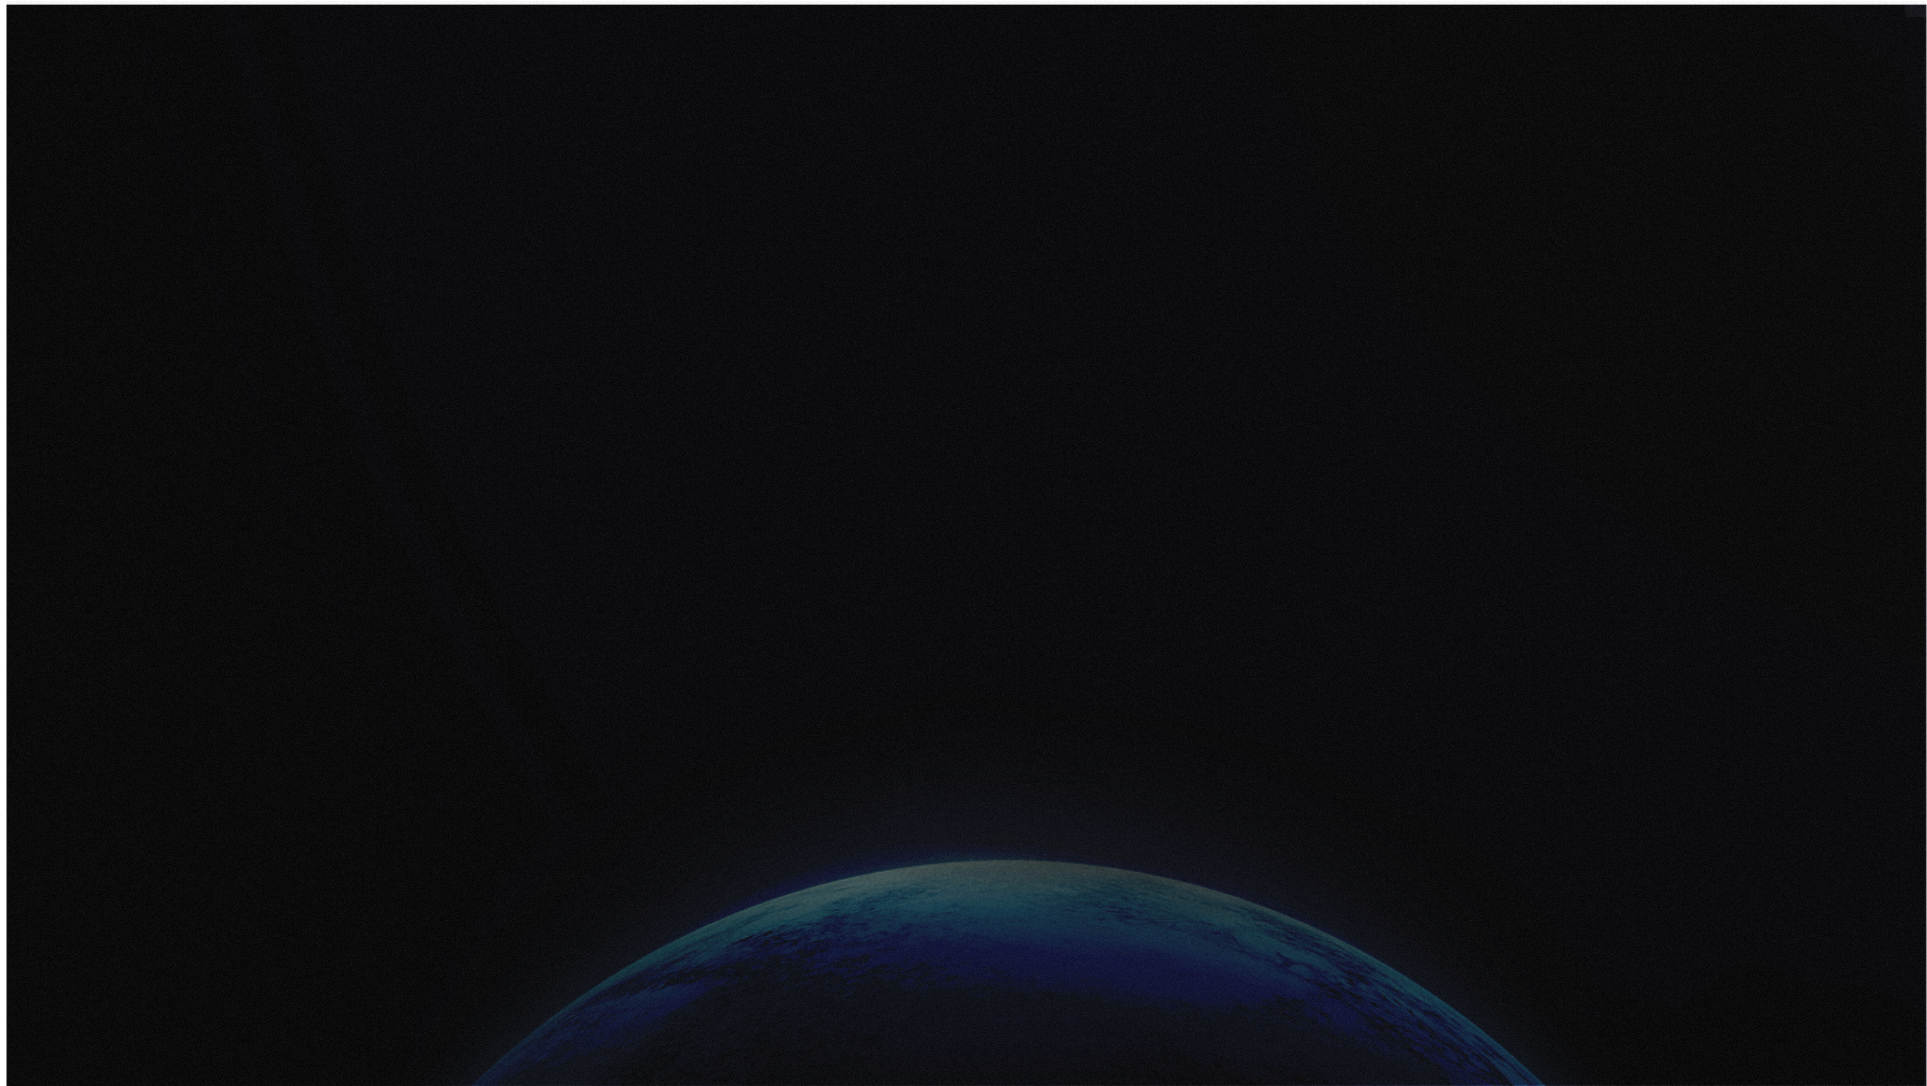
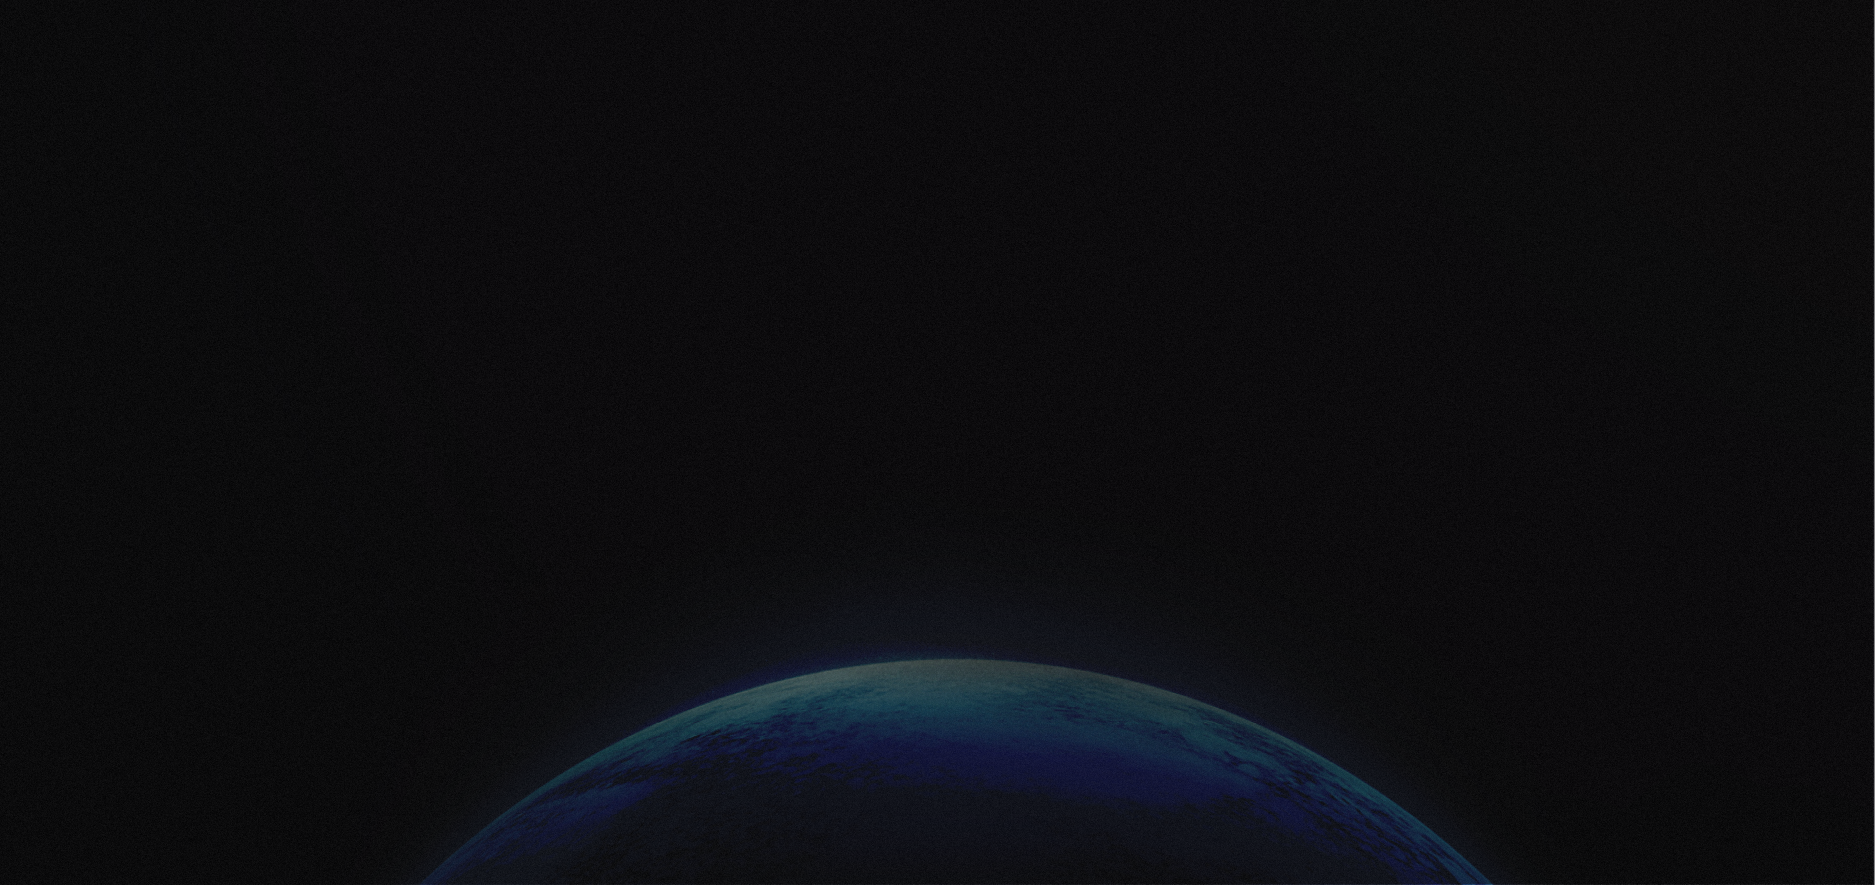
Pages

Changed region(s): [[0.0, 0.0, 1.0, 1.0], [0.2165, 0.7322, 0.8043, 1.0]]

diff --git a/app/(site)/page.tsx b/app/(site)/page.tsx
@@ -15,13 +15,13 @@ import BoxComponent from "./components/BoxComponent";
 export default function Home() {
 	return (
 		<main className="flex min-h-screen flex-col items-center justify-between">
-			<div className="w-full bg-[url('background-image-earh')]">
+			<div className="w-full bg-[url('/background-image-earth-landing.png')] bg-cover bg-center bg-no-repeat">
 				<Hero />
 			</div>
 			<section className="max-w-[1400px] w-full mx-auto p-3 sm:p-4">
 				<div id="ai-search" className="mt-20 px-2 sm:px-4">
 					<div className="w-full flex items-center flex-col">
-						<div className="absolute h-[300px] w-[600px] bg-orange-700 -left-[800px] blur-[300px] rounded-full" />
+						<div className="absolute h-[900px] w-[120px] bg-orange-700 left-[-250px] blur-[250px] rounded" />
 						<div>
 							<Image
 								src="/slash.png"
@@ -40,7 +40,7 @@ export default function Home() {
 								height={300}
 								width={600}
 								draggable={false}
-								className="w-[800px] h-[70px] absolute right-0 -translate-y-16"
+								className="w-[800px] h-[70px] absolute right-0 -translate-y-16 hidden md:block"
 							/>
 						</div>
 						<p className="text-sm text-gray-300 text-center max-w-3xl mt-6 leading-relaxed">
@@ -59,7 +59,8 @@ export default function Home() {
 						/>
 					</div>
 				</div>
-				<div id="ai-bots" className="mt-28">
+				<div id="ai-chat" className="mt-28">
+					<div className="absolute h-[900px] w-[120px] bg-[#2463C1] right-[-250px] blur-[250px] rounded" />
 					<div className="w-full flex items-center gap-3">
 						<Image
 							src="/slash.png"
@@ -89,6 +90,7 @@ export default function Home() {
 								src="/gifs/process.gif"
 								alt="process-image"
 								fill
+								sizes=""
 								objectFit="cover"
 							/>
 						</div>
@@ -104,8 +106,8 @@ export default function Home() {
 						</button>
 					</div>
 				</div>
-				<div id="ai-images" className="mt-32 relative">
-					<div className="absolute h-[600px] w-[300px] bg-green-700 -left-[700px] blur-[250px]" />
+				<div id="ai-images" className="mt-32">
+					<div className="absolute h-[900px] w-[120px] bg-[#369933] left-[-250px] blur-[250px] rounded" />
 					<div className="flex flex-col md:flex-row gap-20">
 						<div className="w-full flex md:hidden items-center gap-3">
 							<h1 className="uppercase text-2xl md:text-3xl bg-gradient-to-b from-white to-gray-500 font-bold text-transparent bg-clip-text">
@@ -113,13 +115,13 @@ export default function Home() {
 							</h1>
 							<div className="h-[3px] max-w-xl bg-gradient-to-r from-gray-500 via-gray-700/50 to-transparent flex-1" />
 						</div>
-						<div className="h-96 md:h-auto w-full relative">
+						<div className="h-96 md:h-auto w-full relative sha">
 							<Image
 								src="/gifs/man-visualization.gif"
 								alt="visualization"
 								objectFit="cover"
 								fill
-								className="rounded-3xl max-h-[500px]"
+								className="rounded-3xl max-h-[500px]  shadow-2xl shadow-[#2c2c2c]"
 							/>
 						</div>
 						<div className="w-full">
@@ -149,6 +151,7 @@ export default function Home() {
 					</div>
 				</div>
 				<div id="ai-writing" className="mt-28">
+					<div className="absolute h-[900px] w-[120px] bg-[#27ACB2] right-[-250px] blur-[250px] rounded" />
 					<div className="w-full flex items-center gap-3">
 						<Image
 							src="/slash.png"
@@ -170,13 +173,15 @@ export default function Home() {
 							))}
 						</div>
 						<div className="w-full md:max-w-lg ">
-							<Image
-								src="/landing/ai-writing.gif"
-								alt="Writing Ai"
-								width={900}
-								height={600}
-								className="rounded-3xl shadow-2xl shadow-[#2c2c2c]"
-							/>
+							<div className="bg-gradient-to-tl from-primary-red via-primary-yellow/40 to-transparent p-[3px] w-full rounded-3xl">
+								<Image
+									src="/landing/ai-writing.gif"
+									alt="Writing Ai"
+									width={900}
+									height={600}
+									className="rounded-3xl shadow-2xl shadow-[#2c2c2c]"
+								/>
+							</div>
 						</div>
 					</div>
 					<div className="grid grid-cols-1 sm:grid-cols-2 md:grid-cols-4 gap-5 mt-10">
@@ -191,8 +196,8 @@ export default function Home() {
 					</div>
 				</div>
 				<div id="ai-voice" className="mt-28">
+					<div className="absolute h-[400px] w-[200px] bg-blue-700 left-[-250px] blur-[250px] rounded" />
 					<div className="w-full flex items-center flex-col">
-						<div className="absolute h-[300px] w-[600px] bg-orange-700 -left-[800px] blur-[300px] rounded-full" />
 						<div>
 							<Image
 								src="/slash.png"
@@ -211,7 +216,7 @@ export default function Home() {
 								height={300}
 								width={600}
 								draggable={false}
-								className="w-[800px] h-[70px] absolute right-0 -translate-y-16"
+								className="w-[800px] h-[70px] absolute right-0 -translate-y-16 hidden md:block"
 							/>
 						</div>
 					</div>
@@ -221,9 +226,9 @@ export default function Home() {
 						))}
 					</div>
 				</div>
-				<div className="mt-28">
+				<div id="ai-codes" className="mt-28">
+					<div className="absolute h-[900px] w-[120px] bg-[#726761] right-[-250px] blur-[250px] rounded" />
 					<div className="w-full flex items-center flex-col">
-						<div className="absolute h-[300px] w-[600px] bg-orange-700 -left-[800px] blur-[300px] rounded-full" />
 						<div className="w-full flex items-center gap-3">
 							<Image
 								src="/slash.png"
@@ -275,9 +280,9 @@ export default function Home() {
 						</div>
 					</div>
 				</div>
-				<div className="mt-28">
+				<div id="ai-personalized" className="mt-28">
+					<div className="absolute h-[900px] w-[120px] bg-yellow-700 left-[-250px] blur-[250px] rounded" />
 					<div className="w-full flex items-center flex-col">
-						<div className="absolute h-[300px] w-[600px] bg-orange-700 -left-[800px] blur-[300px] rounded-full" />
 						<div>
 							<Image
 								src="/slash.png"
@@ -296,12 +301,12 @@ export default function Home() {
 								height={300}
 								width={600}
 								draggable={false}
-								className="w-[800px] h-[70px] absolute right-0 -translate-y-16"
+								className="w-[800px] h-[70px] absolute right-0 -translate-y-16 hidden md:block"
 							/>
 						</div>
 					</div>
 					<div className="mt-14">
-						<div className="grid grid-cols-1 sm:grid-cols-2 md:grid-cols-3 gap-5">
+						<div className="grid grid-cols-1 sm:grid-cols-2 md:grid-cols-3 gap-10">
 							{AiPersonaObject.map((option, index) => (
 								<BoxComponent
 									isFullWidth={true}
@@ -312,7 +317,8 @@ export default function Home() {
 						</div>
 					</div>
 				</div>
-				<div className="mt-28">
+				<div id="create-your-own" className="mt-28">
+					<div className="absolute h-[900px] w-[120px] bg-primary-red right-[-250px] blur-[250px] rounded" />
 					<div className="w-full flex items-center gap-3">
 						<Image
 							src="/slash.png"

diff --git a/app/(site)/components/AccessButton.tsx b/app/(site)/components/AccessButton.tsx
@@ -1,0 +1,97 @@
+"use client";
+
+import React from "react";
+import { motion } from "framer-motion";
+import { useState, useRef, useEffect } from "react";
+import Image from "next/image";
+import clsx from "clsx";
+export default function AccessButton() {
+	const [isEarlyAccess, setIsEarlyAccess] = useState(false);
+	const [isValid, setIsValid] = useState(false);
+	const [email, setEmail] = useState("");
+	const [loading, setLoading] = useState(false);
+	const [isSuccess, setIsSuccess] = useState(false);
+	function handleChange(e: any) {
+		setEmail(e.target.value);
+		if (email) {
+			setIsValid(true);
+		}
+	}
+
+	const handleSubmit = (e: any) => {
+		e.preventDefault();
+		setLoading(true);
+		// handle api instead
+		setTimeout(() => {
+			setLoading(false);
+			setIsSuccess(true);
+		}, 2000);
+	};
+	const formRef = useRef<HTMLFormElement | null>(null);
+	const handleOutsideClick = (e: any) => {
+		if (formRef.current && !formRef.current.contains(e.target)) {
+			setIsEarlyAccess(false);
+		}
+	};
+	useEffect(() => {
+		document.addEventListener("mousedown", handleOutsideClick);
+		return () => {
+			document.addEventListener("mousedown", handleOutsideClick);
+		};
+	}, []);
+	return (
+		<div className="flex flex-col justify-center items-center">
+			{!isEarlyAccess && (
+				<button
+					onClick={() => setIsEarlyAccess(true)}
+					className="px-6 py-3.5 bg-neutral-800/50 ring-1 ring-inset ring-neutral-700 mt-5 capitalize text-sm rounded-md hover:bg-neutral-800/80 transition duration-300 font-semibold">
+					Get early access
+				</button>
+			)}
+			{isEarlyAccess && (
+				<motion.form
+					initial="hidden"
+					whileInView="visible"
+					viewport={{ once: true, amount: 0.4 }}
+					transition={{ duration: 0.5, delay: 0.4 }}
+					variants={{
+						hidden: { opacity: 0, x: -50 },
+						visible: { opacity: 1, x: 0 },
+					}}
+					ref={formRef}
+					onSubmit={handleSubmit}
+					className="w-[500px] mt-10">
+					<div className="bg-[#fbf7fb14] ring-1 ring-[#fbf7fb33] h-12 focus-within:ring-[#fbf7fb77] transition rounded-md flex items-center p-1 pl-3">
+						<input
+							type="text"
+							disabled={loading}
+							placeholder="Enter your email address"
+							onChange={handleChange}
+							className="h-full w-full bg-transparent outline-none text-sm"
+						/>
+						{isValid && (
+							<button
+								type="submit"
+								disabled={loading}
+								className={clsx(
+									" bg-primary-red text-white flex items-center gap-1 p-3 h-full w-8 text-sm rounded-md min-w-fit hover:bg-red-500 transition duration-300",
+									loading && "opacity-50"
+								)}>
+								{loading ? (
+									<span className="w-8">...</span>
+								) : (
+									<Image
+										src={isSuccess ? "/svgs/check.svg" : "/svgs/Arrow 1.svg"}
+										alt="Send icon"
+										width={30}
+										height={30}
+									/>
+								)}
+							</button>
+						)}
+					</div>
+				</motion.form>
+			)}
+		</div>
+	);
+}

diff --git a/app/(site)/components/Hero.tsx b/app/(site)/components/Hero.tsx
@@ -1,10 +1,11 @@
 import { heroTools } from "@/utils/constants/objects";
 import React from "react";
 import HeroButton from "./HeroButton";
+import AccessButton from "./AccessButton";
 
 export default function Hero() {
 	return (
-		<div className="mt-20 h-fit max-w-[1500px] h- mx-auto px-2 sm:px-4">
+		<div className="mt-20 h-fit max-w-[1500px] mx-auto px-2 sm:px-4 min-h-[40vh] max-h-[70vh]">
 			<div className="flex flex-col gap-4 items-start sm:items-center">
 				<h1 className="text-4xl text-transparent bg-gradient-to-b from-white to-gray-500 bg-clip-text flex gap-2">
 					Empowering
@@ -12,14 +13,12 @@ export default function Hero() {
 				<h1 className="capitalize text-4xl text-gray-200">
 					Everything, Everyone with AI
 				</h1>
-				<button className="px-6 py-3.5 bg-neutral-800/50 ring-1 ring-inset ring-neutral-700 mt-5 capitalize text-sm rounded-md hover:bg-neutral-800/80 transition font-semibold">
-					Get early access
-				</button>
+				<AccessButton/>
 			</div>
 
-			<div className="flex justify-center mt-56 gap-14 h-[40vh]">
+			<div className="hidden xl:flex justify-center mt-40 gap-3 h-[60vh]">
 				{heroTools.map((item, index) => {
-					const angle = index * (180 / (heroTools.length - 2.5 )) - 120;
+					const angle = index * (180 / (heroTools.length - 1 )) - 90;
 					return <HeroButton angle={angle} index={index} item={item} />;
 				})}
 			</div>

diff --git a/app/(site)/road-map/components/MileStoneComponent.tsx b/app/(site)/road-map/components/MileStoneComponent.tsx
@@ -14,8 +14,8 @@ export default function MileStoneComponent({
 }: IProps) {
 	return (
 		<div className="max-w-5xl mx-auto">
-			<div className="flex">
-				<div className="w-full max-w-xs flex gap-5 items-center justify-end">
+			<div className="flex flex-col md:flex-row">
+				<div className="w-full md:max-w-xs flex gap-5 items-center md:justify-end">
 					<div className="w-full max-w-fit flex gap-2 text-xs">
 						<span className="text-primary-red">[</span>
 						<h1 className="text-[#FBFBFB]/80 uppercase">{date}</h1>
@@ -23,7 +23,7 @@ export default function MileStoneComponent({
 					</div>
 					<div className="h-[1px] max-w-[120px] w-full bg-[#252134]" />
 				</div>
-				<div className="w-full border-l border-[#252134] flex items-start gap-5 py-10 px-10 max-w-2xl">
+				<div className="w-full md:border-l md:border-[#252134] flex items-start gap-5 py-10 px-5 md:px-10 max-w-2xl">
 					<Image
 						src={isComplete ? "/svgs/done.svg" : "/svgs/undone.svg"}
 						alt="Image"

diff --git a/app/(site)/road-map/page.tsx b/app/(site)/road-map/page.tsx
@@ -16,7 +16,7 @@ export default function RoadMapPage() {
 					</h1>
 				</div>
 			</div>
-			<section className="max-w-[1400px] mx-auto mt-20">
+			<section className="max-w-[1400px] mx-auto mt-20 p-3 sm:p-4">
 				<div>
 					<div>
 						<Image
@@ -34,7 +34,7 @@ export default function RoadMapPage() {
 							alt="Slashes"
 							height={100}
 							width={600}
-							className="w-[1000px] h-[70px] absolute right-0 -translate-y-12"
+							className="w-[1000px] h-[70px] absolute right-0 -translate-y-12 hidden md:block"
 						/>
 					</div>
 					<div className="mt-20">
@@ -62,7 +62,7 @@ export default function RoadMapPage() {
 							alt="Slashes"
 							height={100}
 							width={600}
-							className="w-[1000px] h-[70px] absolute right-0 -translate-y-12"
+							className="w-[1000px] h-[70px] absolute right-0 -translate-y-12 hidden md:block"
 						/>
 					</div>
 					<div className="mt-20">

diff --git a/app/(site)/components/HeroButton.tsx b/app/(site)/components/HeroButton.tsx
@@ -37,7 +37,7 @@ export default function HeroButton({
 				<div
 					className={`absolute z-[1] opacity-0 -inset-2 rounded-full bg-custom-${index} transition duration-500 group-hover:opacity-30`}></div>
 				<div
-					className={`relative z-20 bg-custom-${index} max-w-fittransition p-8 rounded-full`}
+					className={`relative z-20 bg-custom-${index} max-w-fit transition ${index === 3 ? 'p-8' : 'p-5 mt-10'} rounded-full`}
 					style={{
 						transform: `rotate(${-angle}deg)`, // Apply reverse rotation to the image
 					}}>

diff --git a/styles/globals.css b/styles/globals.css
@@ -58,7 +58,7 @@ body {
 
 
 .bg-custom-0 {
-	background: linear-gradient(to top right, #111010, #292828, white);
+	background: linear-gradient(to top right, #111010, #292828, #6d6d6d);
 }
 .bg-custom-1 {
 	background: linear-gradient(to top right, #4d35c8, #4c3d9a, white);

diff --git a/app/layout.tsx b/app/layout.tsx
@@ -15,7 +15,7 @@ export default function RootLayout({
   children: React.ReactNode
 }) {
   return (
-    <html lang="en">
+    <html lang="en" className='overflow-x-hidden'>
       <body className={inter.className}>{children}</body>
     </html>
   )
